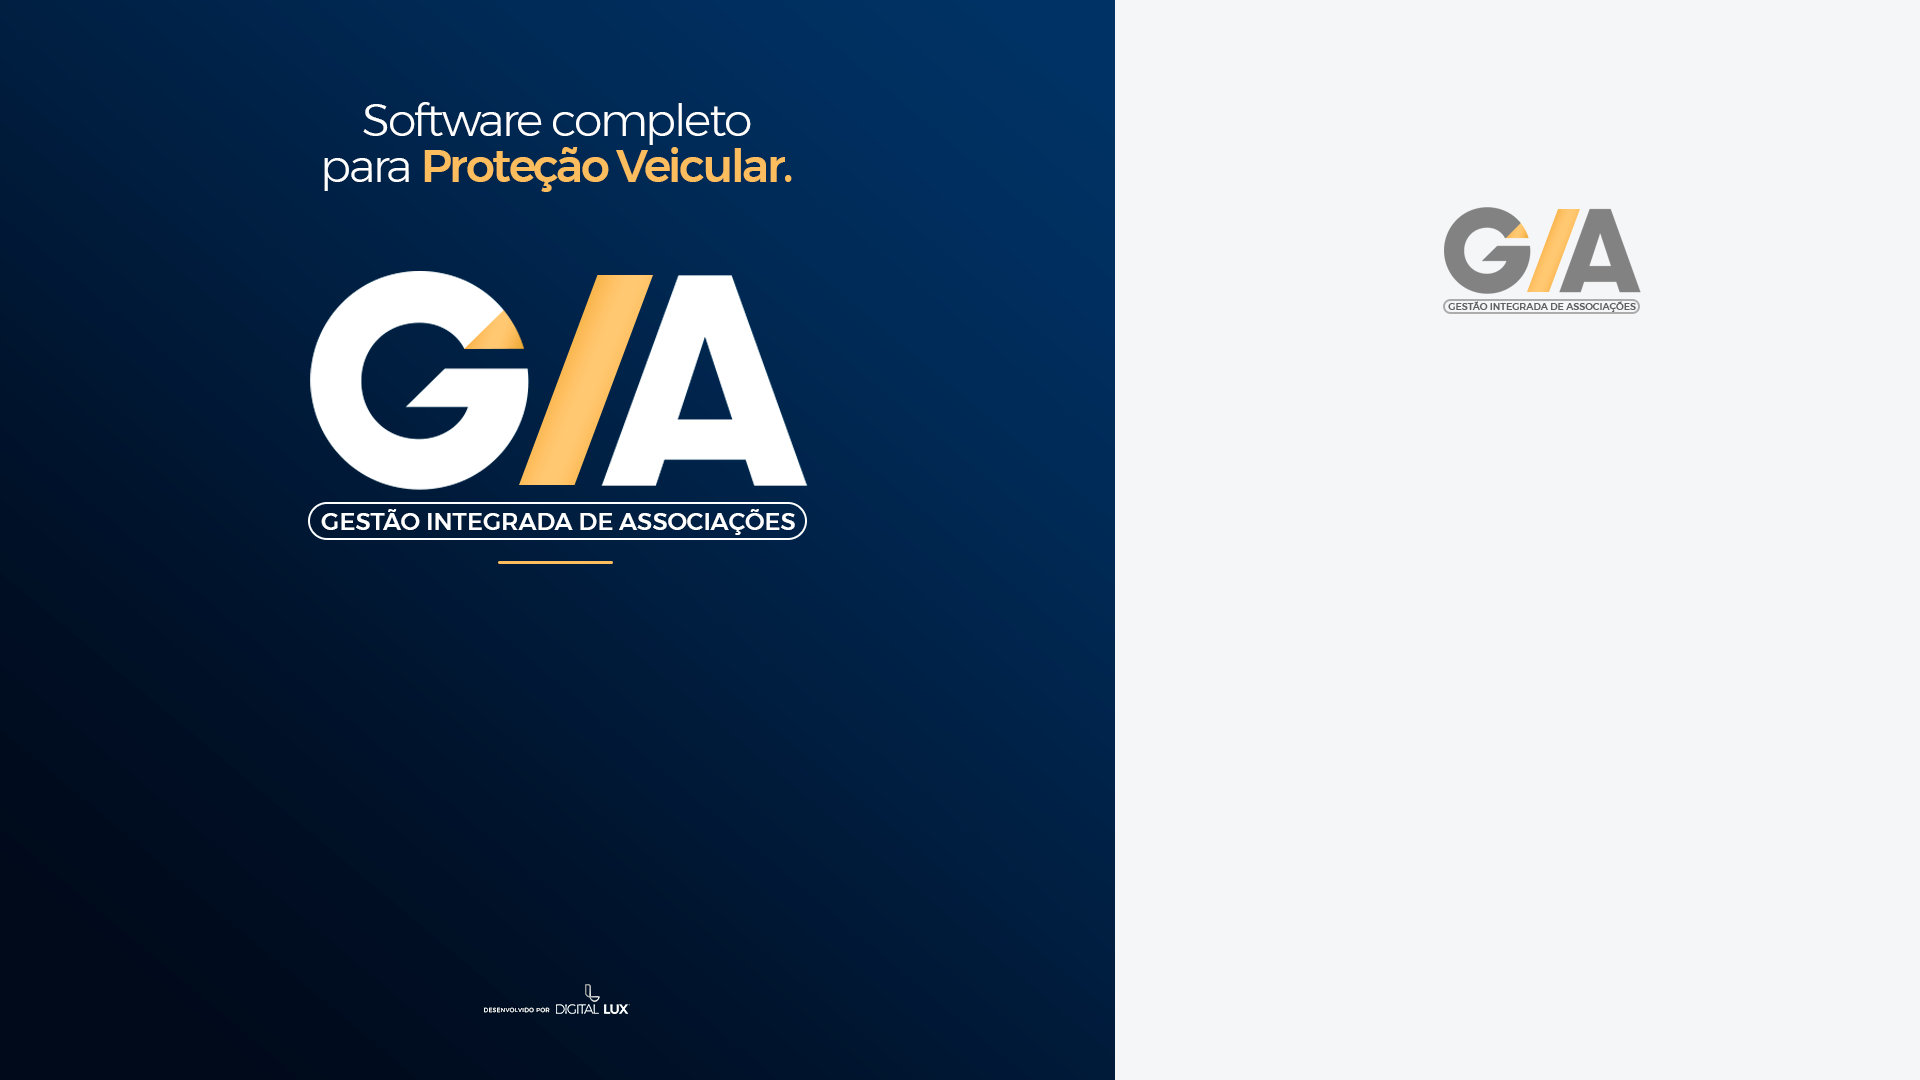
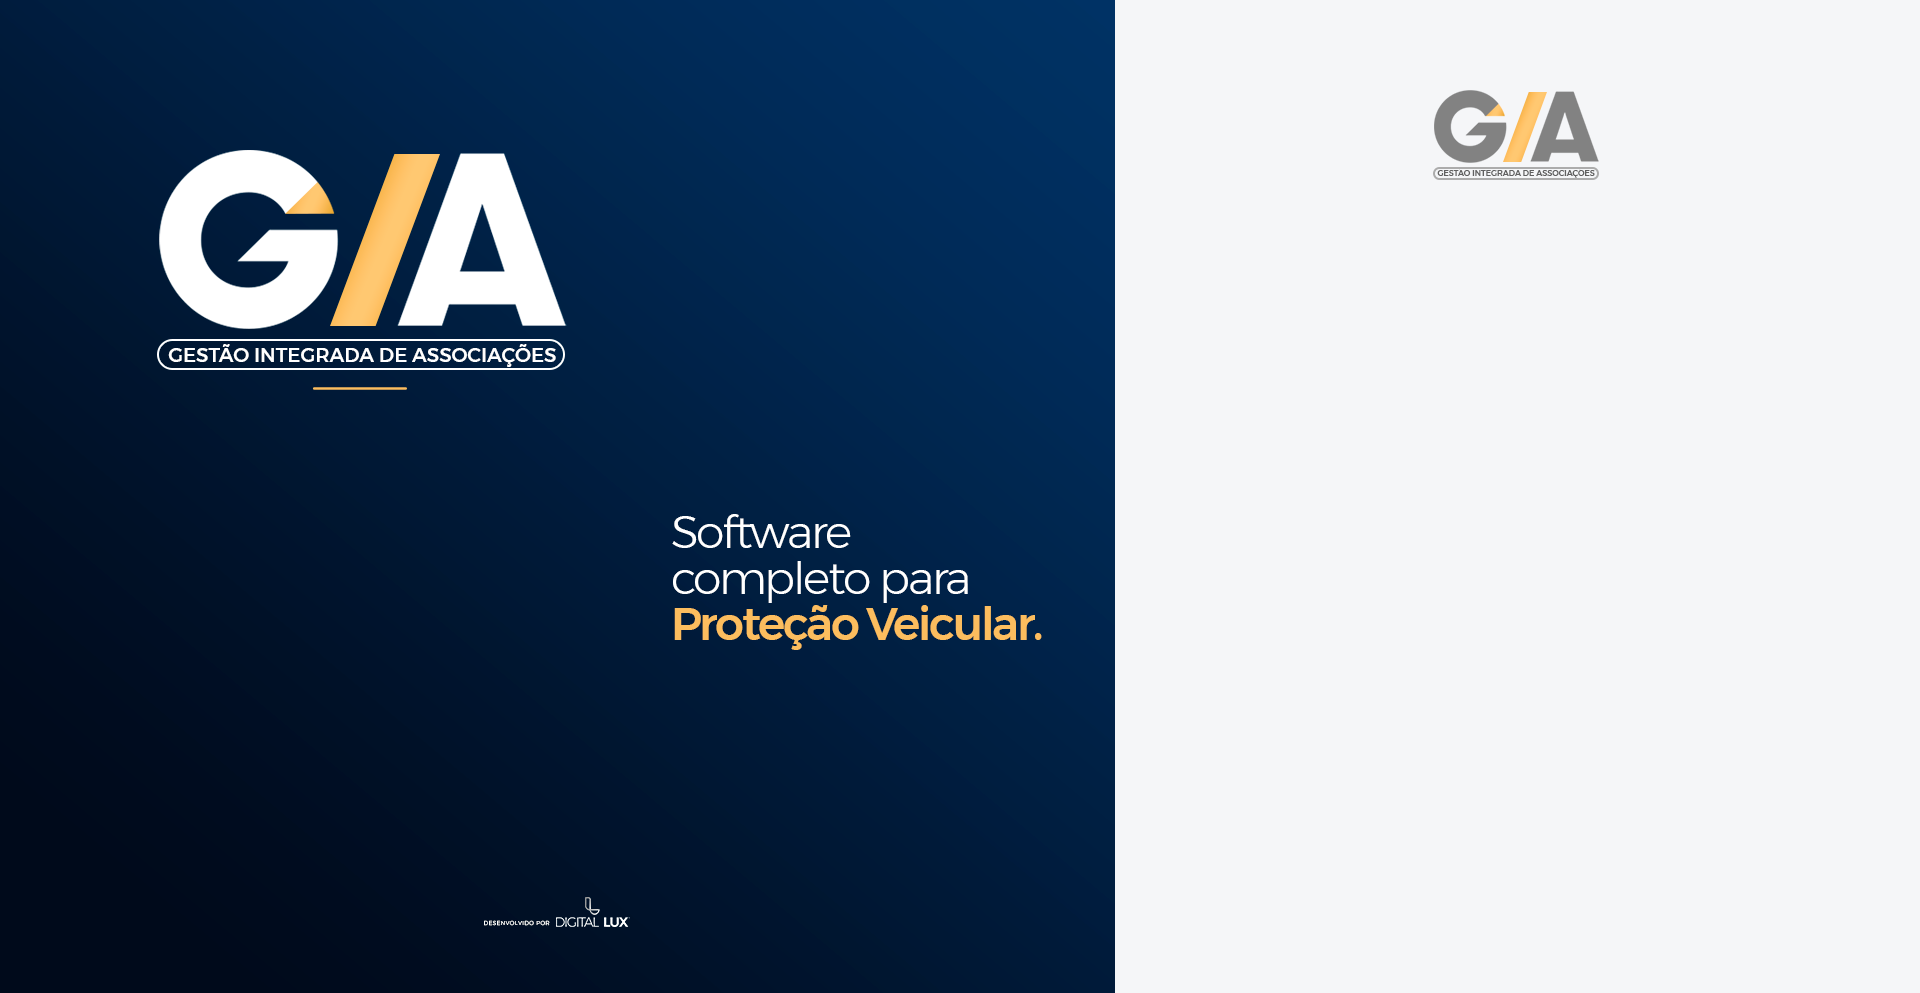
feat: imagem GIA como fundo fullscreen painel esquerdo

Changed region(s): [[0.0625, 0.0937, 0.5625, 0.6556], [0.75, 0.0937, 0.875, 0.3122], [0.25, 0.9053, 0.3438, 0.9366]]

diff --git a/src/pages/Auth.tsx b/src/pages/Auth.tsx
@@ -66,18 +66,8 @@ export default function Auth() {
   return (
     <div className="min-h-screen flex">
       {/* Left side - Hero with gradient */}
-      <div className="hidden lg:flex lg:w-[58%] relative gradient-hero overflow-hidden">
-        {/* Animated orbs */}
-        <div className="absolute inset-0 overflow-hidden">
-          <div className="orb orb-1" />
-          <div className="orb orb-2" />
-          <div className="orb orb-3" />
-          {/* Grid pattern overlay */}
-          <div className="absolute inset-0 opacity-[0.03]" style={{
-            backgroundImage: 'linear-gradient(rgba(255,255,255,0.1) 1px, transparent 1px), linear-gradient(90deg, rgba(255,255,255,0.1) 1px, transparent 1px)',
-            backgroundSize: '60px 60px'
-          }} />
-        </div>
+      <div className="hidden lg:flex lg:w-[58%] relative overflow-hidden" style={{ backgroundImage: "url('/login-bg.png')", backgroundSize: "cover", backgroundPosition: "center", backgroundRepeat: "no-repeat" }}>
+
 
         <div className="relative z-10 flex flex-col justify-between p-12 xl:p-16 w-full">
           {/* Top - Logo */}
